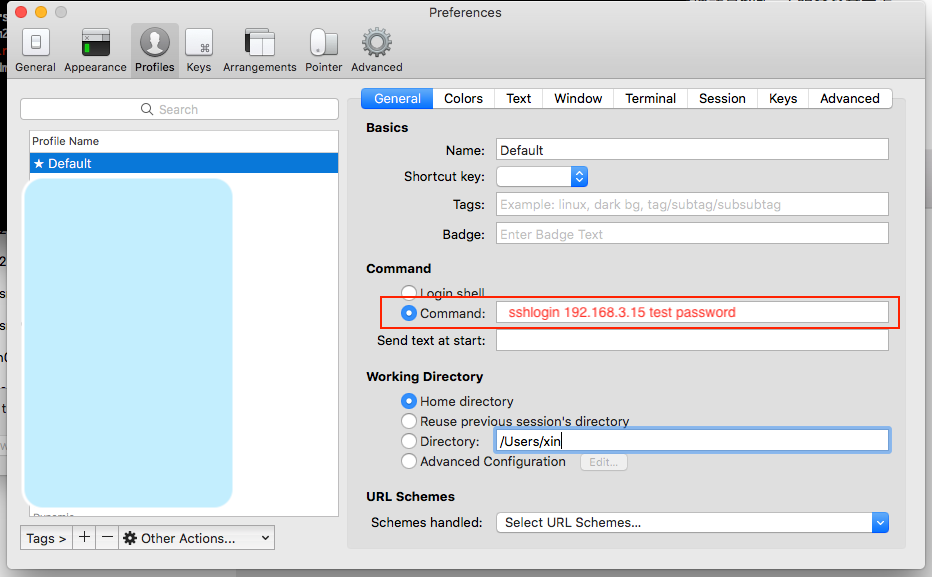
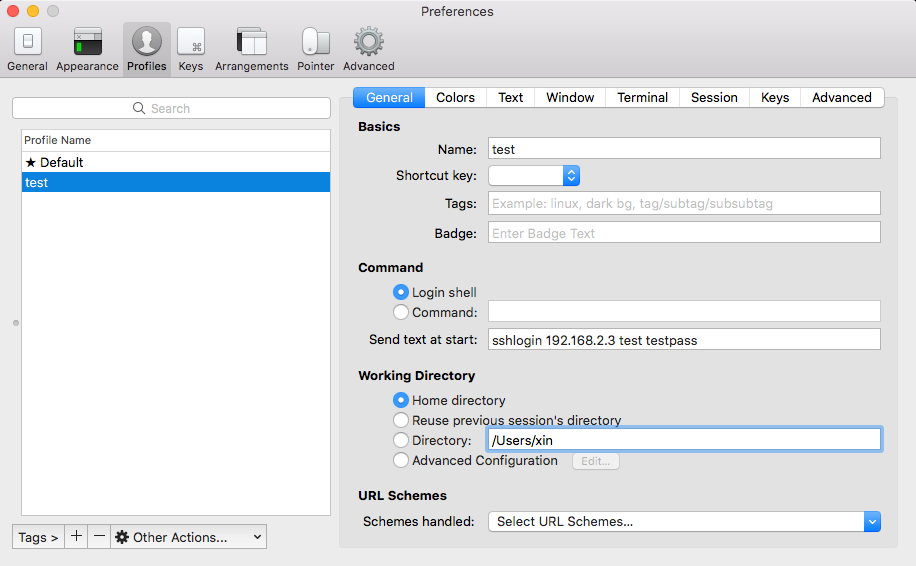
correct the Iterm2 screenshot

diff --git a/iTerm2实现ssh免密码输入登录.md b/iTerm2实现ssh免密码输入登录.md
@@ -43,7 +43,7 @@ interact
 alias sshlogin="~/Codes/mac_xin/item2_dynprop/sshlogin.sh"
 ```
 
-在iTerm2中，依次选择iTerm2 -> Preferences -> Profiles建立一个新的profile，如下图，在Command中填入内容：
+在iTerm2中，依次选择iTerm2 -> Preferences -> Profiles建立一个新的profile，如下图，选择*Login shell*在*Send text at start*中填入内容：
 ```bash
 sshlogin 192.168.3.15 test password
 ```
